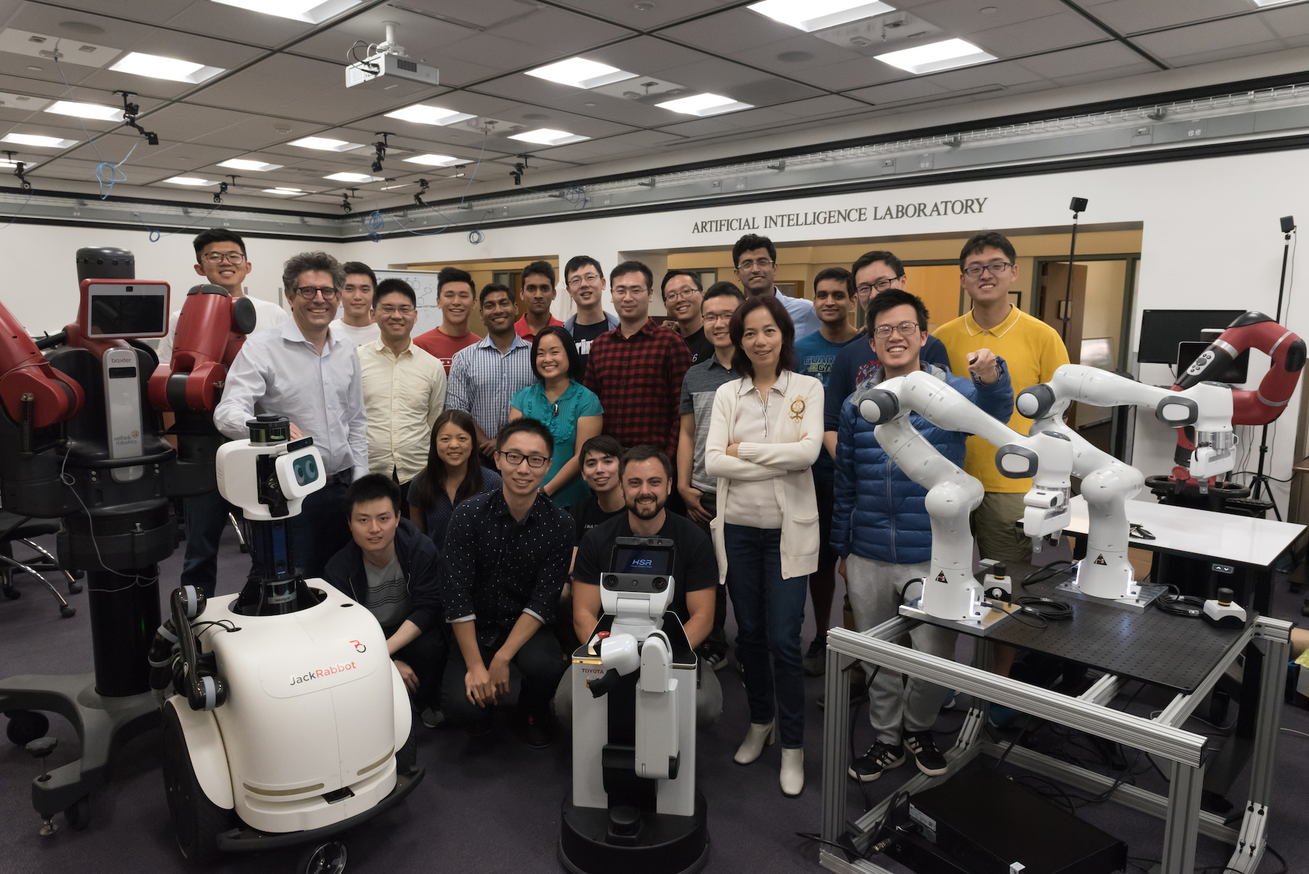
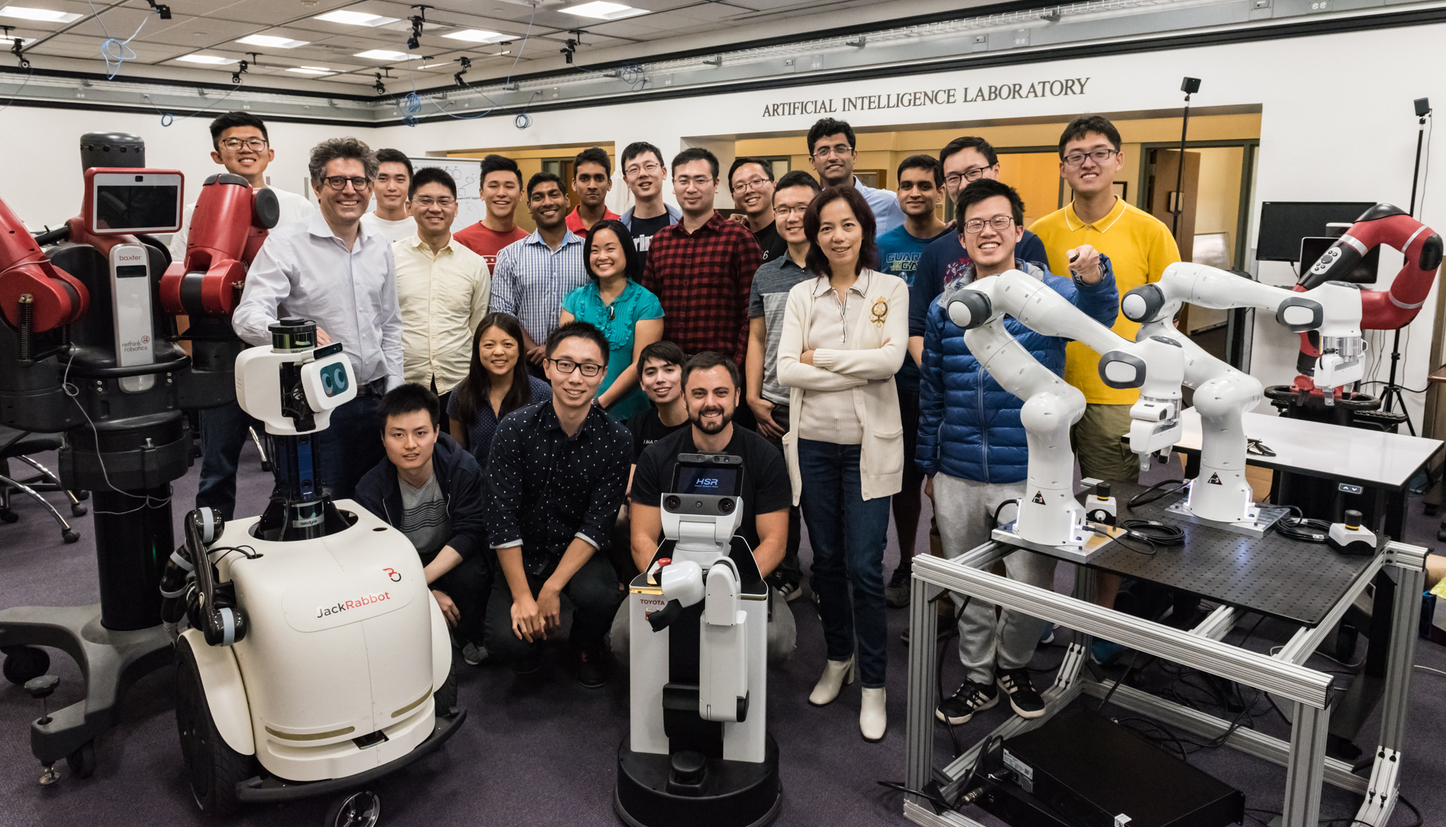
add new group photo

diff --git a/index.md b/index.md
@@ -21,7 +21,9 @@ about: "PAIR website"
         </p>
       </div>
       <div class="col-md-6">
-          <img class="img-responsive" src="./img/jumbotron/group.jpg" alt="">
+          <a href="{{ site.url }}/img/jumbotron/group_original.jpg">
+            <img class="img-responsive" src="{{ site.url }}/img/jumbotron/group.jpg" alt="">
+          </a>
       </div>
     </div>
   </div>
